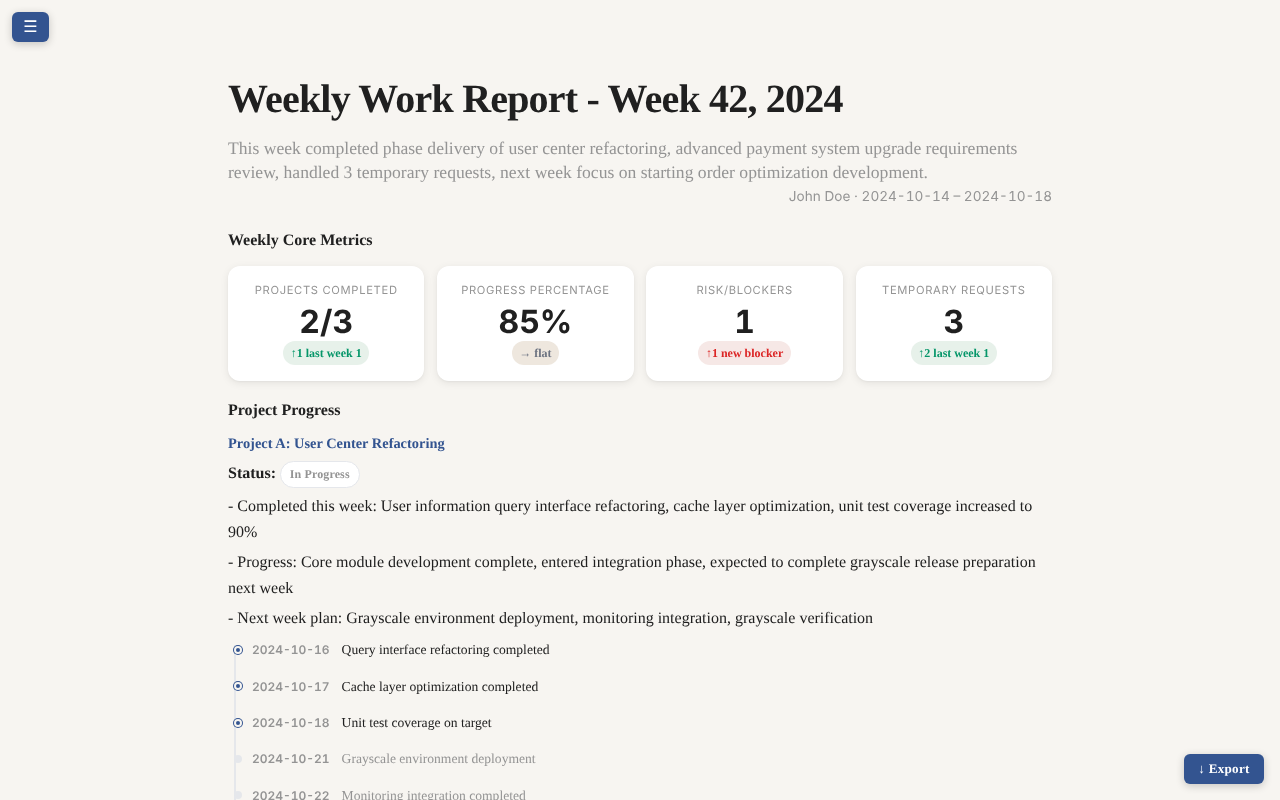
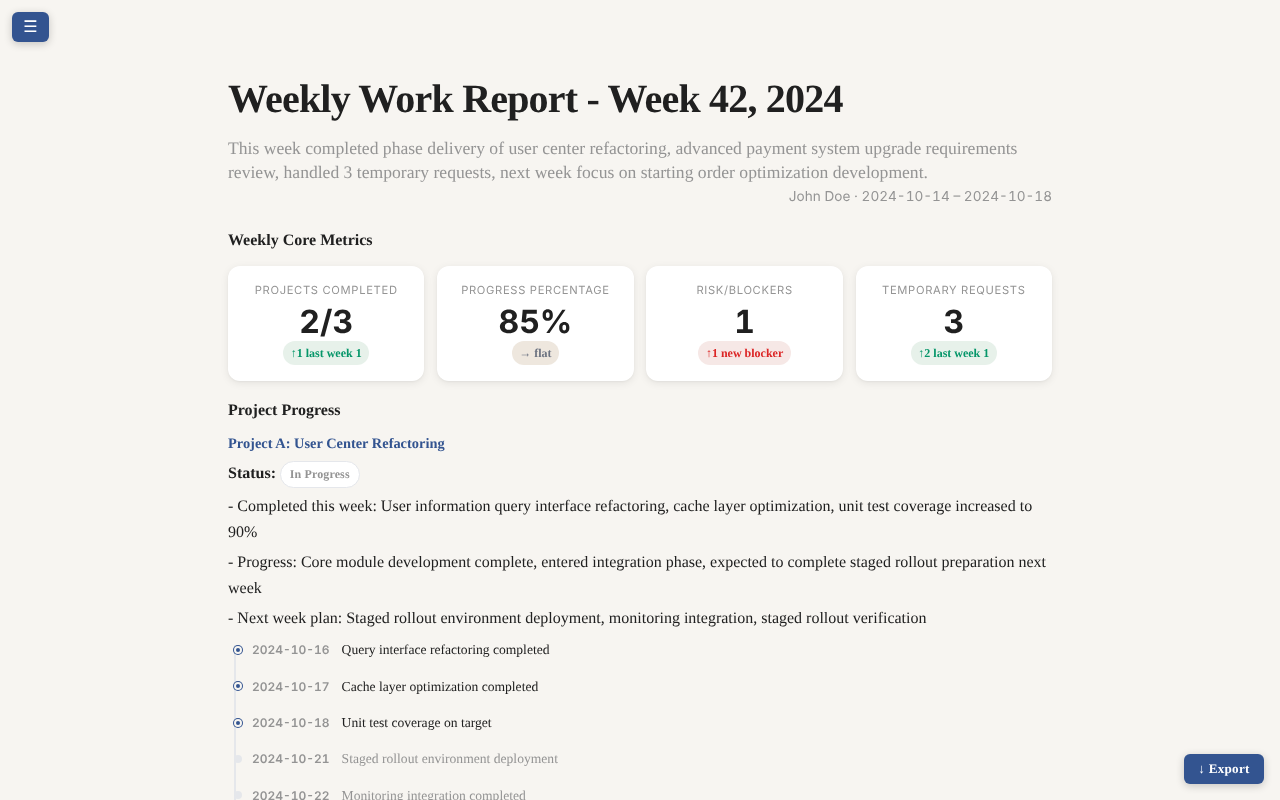
Reword grayscale to staged rollout in regular-lumen template
Claude-Session: https://claude.ai/code/session_01TZmhiAp7N2iuhNTaqogweP

diff --git a/templates/en/regular-lumen.html b/templates/en/regular-lumen.html
@@ -326,8 +326,8 @@ body.no-toc .main-with-toc { margin-left: 0; }
 <h3>Project A: User Center Refactoring</h3>
 <p><strong>Status: <span class="badge badge--green">In Progress</span></strong></p>
 <p>- Completed this week: User information query interface refactoring, cache layer optimization, unit test coverage increased to 90%</p>
-<p>- Progress: Core module development complete, entered integration phase, expected to complete grayscale release preparation next week</p>
-<p>- Next week plan: Grayscale environment deployment, monitoring integration, grayscale verification</p>
+<p>- Progress: Core module development complete, entered integration phase, expected to complete staged rollout preparation next week</p>
+<p>- Next week plan: Staged rollout environment deployment, monitoring integration, staged rollout verification</p>
 
 <div class="timeline fade-in-up" data-component="timeline">
 <div class="timeline-item">
@@ -348,7 +348,7 @@ body.no-toc .main-with-toc { margin-left: 0; }
 <div class="timeline-item future">
 <div class="timeline-dot"></div>
 <div class="timeline-date"><span class="number">2024-10-21</span></div>
-<div class="timeline-content">Grayscale environment deployment</div>
+<div class="timeline-content">Staged rollout environment deployment</div>
 </div>
 <div class="timeline-item future">
 <div class="timeline-dot"></div>
@@ -478,13 +478,13 @@ body.no-toc .main-with-toc { margin-left: 0; }
 <hr/>
 </section>
 
-<section id="section-nextweek" data-section="nextweek" data-summary="Next week plan: user center grayscale verification, payment solution final draft, order optimization kickoff">
+<section id="section-nextweek" data-section="nextweek" data-summary="Next week plan: user center staged rollout verification, payment solution final draft, order optimization kickoff">
 <h2>Next Week Plan</h2>
 <div class="timeline fade-in-up" data-component="timeline">
 <div class="timeline-item">
 <div class="timeline-dot"></div>
 <div class="timeline-date"><span class="number">2024-10-21</span></div>
-<div class="timeline-content">User center grayscale deployment, report script delivery</div>
+<div class="timeline-content">User center staged rollout deployment, report script delivery</div>
 </div>
 <div class="timeline-item">
 <div class="timeline-dot"></div>
@@ -494,7 +494,7 @@ body.no-toc .main-with-toc { margin-left: 0; }
 <div class="timeline-item">
 <div class="timeline-dot"></div>
 <div class="timeline-date"><span class="number">2024-10-23</span></div>
-<div class="timeline-content">User center grayscale verification kickoff</div>
+<div class="timeline-content">User center staged rollout verification kickoff</div>
 </div>
 <div class="timeline-item">
 <div class="timeline-dot"></div>
